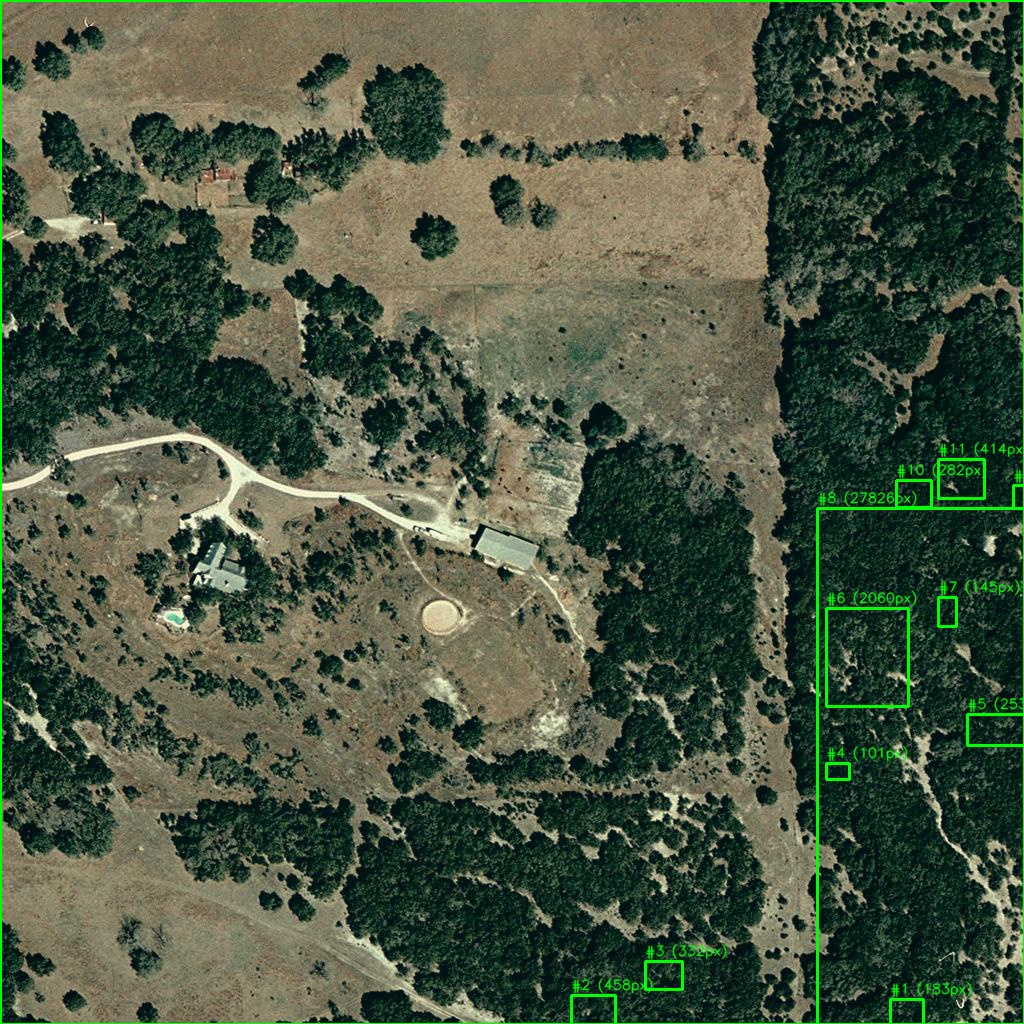
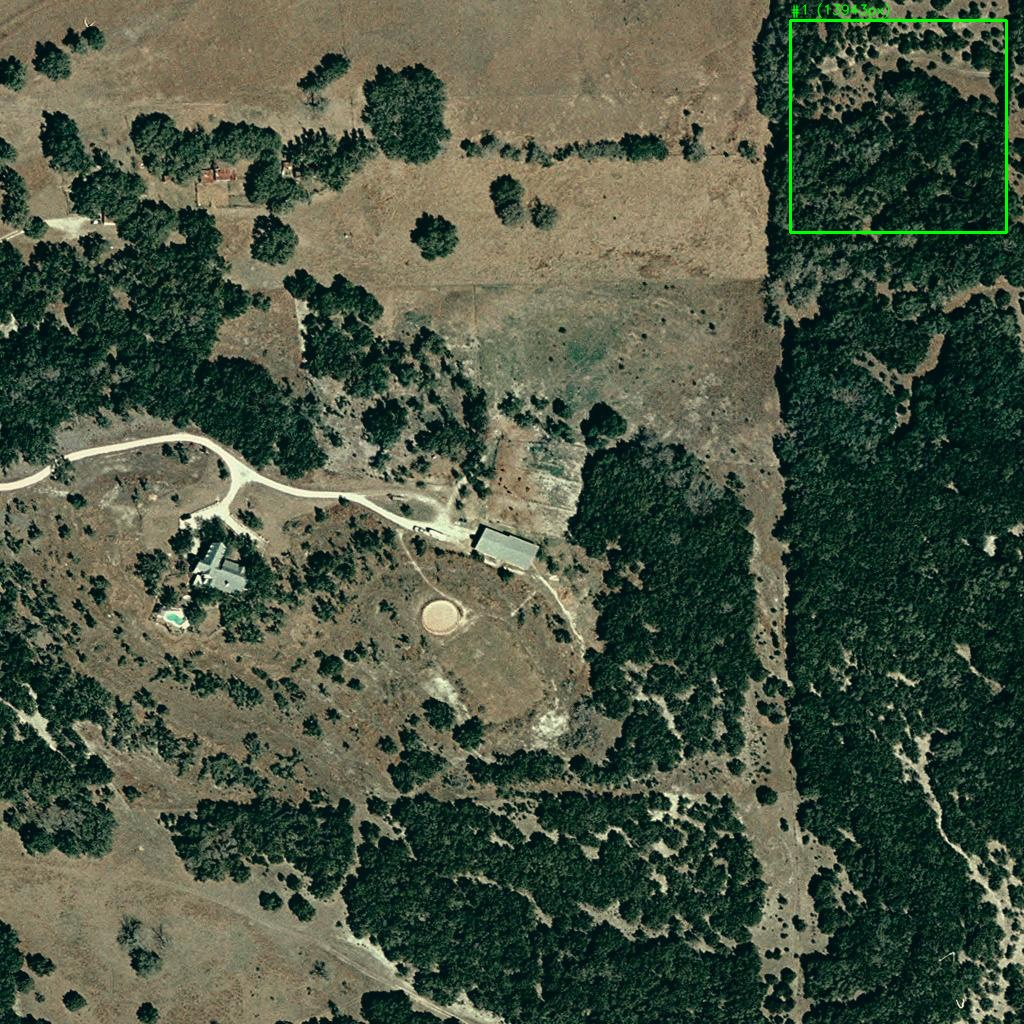
small organization changes

diff --git a/FinalProject/DifferenceDetector.cpp b/FinalProject/DifferenceDetector.cpp
@@ -1,5 +1,5 @@
 // DifferenceDetector.cpp
-// by UV Raz and Emily Kim, 5/24/2026 - 6/__/2026
+// by UV Raz and Emily Kim, 5/24/2026 - 6/04/2026
 //
 // This file contains the implementation of the DifferenceDetector class,
 //	which is responsible for computing the difference between two aligned images,
@@ -98,13 +98,13 @@ std::vector<std::vector<cv::Point>> DifferenceDetector::detectDifferences(const 
     int border = 30;
     cv::rectangle(diff, cv::Point(0, 0), cv::Point(diff.cols-1, diff.rows-1), cv::Scalar(0), border);
     cv::imwrite("2demo_diff_bordered.png", diff);
-    cv::Mat step1 = applyThreshold(diff, 80);
+    cv::Mat step1 = applyThreshold(diff, diffThreshold);
     cv::imwrite("3demo_threshold.png", step1);
-    cv::Mat step2 = applyBlur(step1, 7);
+    cv::Mat step2 = applyBlur(step1, gaussKernelSize);
     cv::imwrite("4demo_blur.png", step2);
-    cv::Mat step3 = morphOpen(step2, 5);
+    cv::Mat step3 = morphOpen(step2, morphOpenKernelSize);
     cv::imwrite("5demo_morph_open.png", step3);
-    cv::Mat mask = morphClose(step3, 11);
+    cv::Mat mask = morphClose(step3, morphCloseKernelSize);
     cv::imwrite("6debug_final_mask.png", mask);
 
     // Contour detection

diff --git a/FinalProject/types.cpp b/FinalProject/types.cpp
@@ -1,16 +1,17 @@
 // types.cpp
-// by UV Raz and Emily Kim, 5/24/2026 - 6/__/2026
+// by UV Raz and Emily Kim, 5/24/2026 - 6/04/2026
 //
 // Implementation file for global configuration variables.
 #include "types.h"
 
 // Image alignment parameters
 int minMatchCount = 10;          // Minimum number of ORB matches to consider a valid homography
-double diffThreshold = 30.0;     // Pixel intensity difference threshold for identifying meaningful regions
+double diffThreshold = 80.0;     // Pixel intensity difference threshold for identifying meaningful regions
 
 // Noise filtering parameters
-int gaussKernelSize = 5;          // Size of the Gaussian blur kernel for noise reduction
-int morphKernelSize = 3;          // Size of the morphological operation kernel for noise reduction
+int gaussKernelSize = 7;          // Size of the Gaussian blur kernel for noise reduction
+int morphOpenKernelSize = 5;          // Size of the morphological open operation kernel for noise reduction
+int morphCloseKernelSize = 11;          // Size of the morphological close operation kernel for noise reduction
 
 // Contour filtering parameters
 double minContourArea = 5000.0;    // Minimum area of contours to be considered meaningful regions

diff --git a/FinalProject/main.cpp b/FinalProject/main.cpp
@@ -1,5 +1,5 @@
 // main.cpp
-// by UV Raz and Emily Kim, 5/24/2026 - 6/__/2026
+// by UV Raz and Emily Kim, 5/24/2026 - 6/04/2026
 //
 // This program accepts two images on the command line and 
 //	outputs a third image with coloured bounding boxes drawn 
@@ -17,6 +17,7 @@
 #include "ImageAligner.h"
 #include "DifferenceDetector.h"
 #include "RegionHighlighter.h"
+#include "types.h"
 
 using namespace cv;
 using namespace std;
@@ -84,7 +85,7 @@ int main(int argc, char** argv)
 	}
 
 	// Highlight the differences
-	Mat outputImg = drawBoundingBoxes(img1, regions, Scalar(0, 255, 0), 2, true);
+	Mat outputImg = drawBoundingBoxes(img1, regions, boxColor, 2, true);
 
 	// Save the output
 	std::string outputFilename = "differences_output.jpg";

diff --git a/FinalProject/types.h b/FinalProject/types.h
@@ -1,5 +1,5 @@
 // types.h
-// by UV Raz and Emily Kim, 5/24/2026 - 6/__/2026
+// by UV Raz and Emily Kim, 5/24/2026 - 6/04/2026
 //
 // Central home for configuration and type definitions for the image differencing program.
 #pragma once
@@ -11,7 +11,8 @@ extern double diffThreshold;   // Pixel intensity difference threshold for ident
 
 // Noise filtering parameters
 extern int gaussKernelSize;     // Size of the Gaussian blur kernel for noise reduction
-extern int morphKernelSize;     // Size of the morphological operation kernel for noise reduction
+extern int morphOpenKernelSize;     // Size of the morphological open operation kernel for noise reduction
+extern int morphCloseKernelSize;     // Size of the morphological close operation kernel for noise reduction
 
 // Contour filtering parameters
 extern double minContourArea;   // Minimum area of contours to be considered meaningful regions

diff --git a/FinalProject/DifferenceDetector.h b/FinalProject/DifferenceDetector.h
@@ -1,5 +1,5 @@
 // DifferenceDetector.h
-// by UV Raz and Emily Kim, 5/24/2026 - 6/__/2026
+// by UV Raz and Emily Kim, 5/24/2026 - 6/04/2026
 //
 // This file contains the declaration of the DifferenceDetector class,
 //	which is responsible for computing the difference between two aligned images,

diff --git a/FinalProject/ImageAligner.cpp b/FinalProject/ImageAligner.cpp
@@ -1,5 +1,5 @@
 // ImageAligner.cpp
-// by UV Raz and Emily Kim, 5/24/2026 - 6/__/2026
+// by UV Raz and Emily Kim, 5/24/2026 - 6/04/2026
 //
 // This file contains the implementation of the ImageAligner class, 
 //	which is responsible for aligning two images using ORB feature 

diff --git a/FinalProject/ImageAligner.h b/FinalProject/ImageAligner.h
@@ -1,5 +1,5 @@
 // ImageAligner.h
-// by UV Raz and Emily Kim, 5/24/2026 - 6/__/2026
+// by UV Raz and Emily Kim, 5/24/2026 - 6/04/2026
 //
 // This file contains the declaration of the ImageAligner class, 
 //	which is responsible for aligning two images using ORB feature 